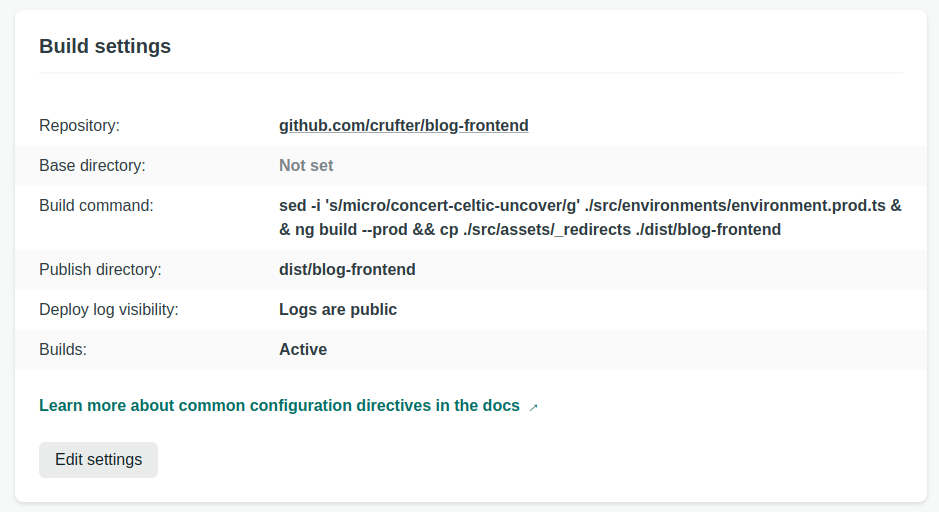
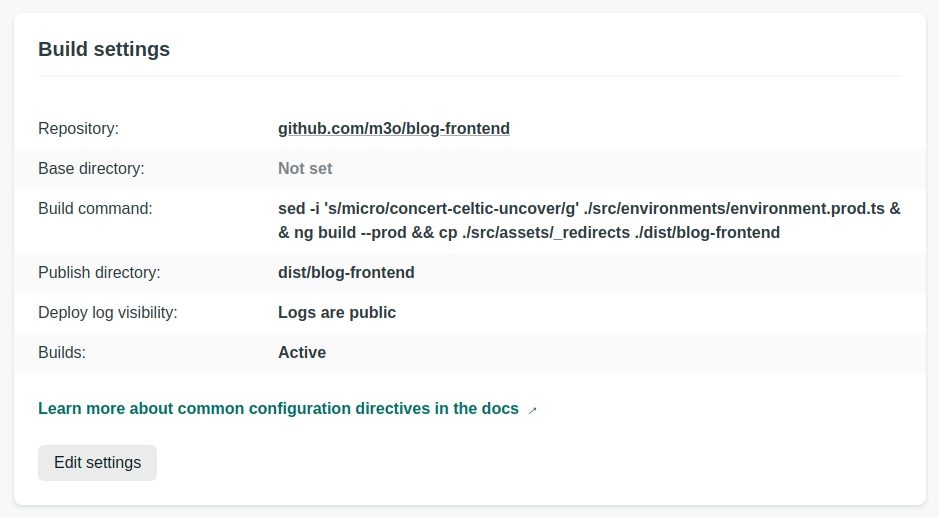
Pushing new picture

diff --git a/_posts/2020-12-03-netlify-for-the-frontend-micro-for-the-backend.md b/_posts/2020-12-03-netlify-for-the-frontend-micro-for-the-backend.md
@@ -241,14 +241,13 @@ The deploy settings for the site hosted under [https://loving-goodall-44ee08.net
 Or to be easier to copypaste:
 
 ```
-Repository        github.com/crufter/blog-frontend
+Repository        github.com/m3o/blog-frontend
 Base directory    Not set
 Build command     sed -i 's/micro/concert-celtic-uncover/g' ./src/environments/environment.prod.ts && ng build --prod && cp ./src/assets/_redirects ./dist/blog-frontend
 Publish directory dist/blog-frontend
 ```
 
-As you can see, it's a fork that is deployed. This is because Netlify asks for the permissions to the repo.
-So after you fork [github.com/m3o/blog-frontend](https://github.com/m3o/blog-frontend), use your fork to deploy on Netlify.
+As you can see, it's the original `m3o/blog-frontend` being deployed in the exaxmple, but in your case `m3o` will be replaced with your fork. This is because Netlify asks for the permissions to the repo.
 
 The build command is a bit involved, here is what it's doing:
 
